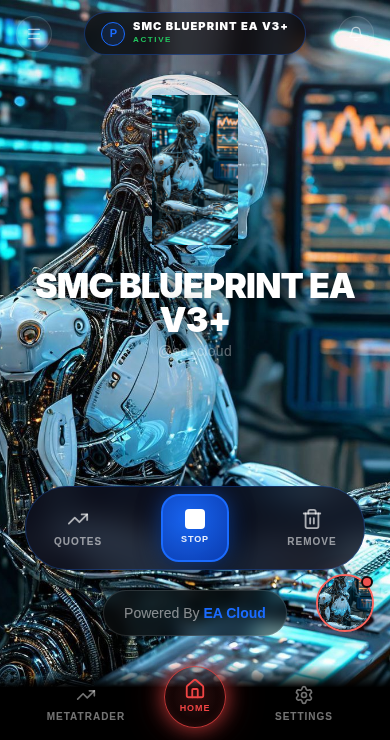
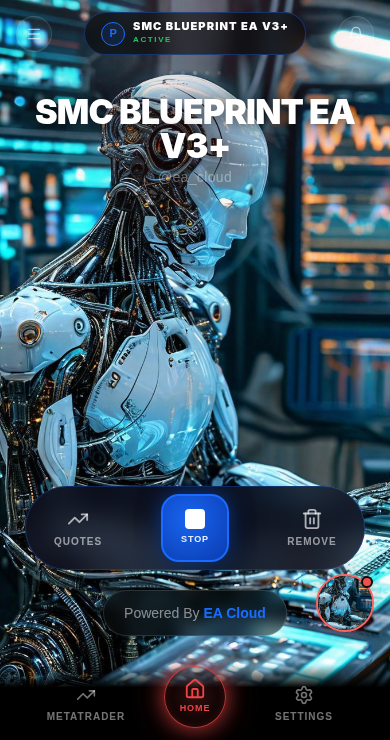
[skip ci] Hide None portraits and enlarge Matrix Orbit and Neural frames

Changed region(s): [[0.0615, 0.1243, 0.9231, 0.4973]]

diff --git a/artifacts/ea-app/src/pages/HomeTab.tsx b/artifacts/ea-app/src/pages/HomeTab.tsx
@@ -5,7 +5,7 @@ import { Bell, Trash2, DollarSign, Play, Pause, X, TrendingUp, Settings2, Check,
 import { useState, useEffect, useRef } from "react";
 import { useApp } from "@/context/AppContext";
 import { useTradeExecutions, type TradeExecution } from "@/hooks/use-trade-executions";
-import { eaLogo, robotBg } from "@/lib/branding";
+import { eaLogo } from "@/lib/branding";
 
 /* Custom chip icon — no inner square */
 function ChipIcon({ size = 24, color = "currentColor", style }: { size?: number; color?: string; style?: React.CSSProperties }) {
@@ -156,8 +156,8 @@ function S2ToneLayout({ shapeStyle, accentColor, botRunning, setBotRunning, eaNa
             : `radial-gradient(circle at 38% 32%, ${accentColor}99 0%, ${accentColor}55 30%, rgba(50,0,0,0.98) 65%, rgba(12,0,0,1) 100%)`,
         }}
       >
-        {(bgImageUrl || shapeStyle === "none") && (
-          <img src={bgImageUrl || robotBg} alt="" className="absolute inset-0 w-full h-full object-cover" />
+        {bgImageUrl && (
+          <img src={bgImageUrl} alt="" className="absolute inset-0 w-full h-full object-cover" />
         )}
         {/* Inner highlight glint */}
         {!bgImageUrl && shapeStyle !== "none" && (
@@ -291,8 +291,8 @@ function RegularLayout({ shapeStyle, accentColor, botRunning, setBotRunning, eaN
           zIndex: 1,
         }}
       >
-        {(bgImageUrl || shapeStyle === "none") ? (
-          <img src={bgImageUrl || robotBg} alt="" className="absolute inset-0 w-full h-full object-cover" />
+        {bgImageUrl ? (
+          <img src={bgImageUrl} alt="" className="absolute inset-0 w-full h-full object-cover" />
         ) : (
           <ChipIcon size={110} color={accentColor} style={{ filter: `drop-shadow(0 0 18px ${accentColor}) drop-shadow(0 0 36px ${accentColor}66)` }} />
         )}
@@ -432,15 +432,11 @@ function MatrixLayout({ shapeStyle, accentColor, botRunning, setBotRunning, eaNa
         {[...Array(5)].map((_, i) => <div key={i} className="w-1 h-1 rounded-full bg-white" style={{ opacity: i === 2 ? 0.8 : 0.4 }} />)}
       </div>
 
-      {shapeStyle === "none" ? (
-        <RobotImageFrame shape="none" accent={accentColor} size={150} borderWidth={0} className="mb-6" style={{}}>
-          <img src={bgImageUrl || robotBg} alt={eaName} />
-        </RobotImageFrame>
-      ) : (
-      <div className="relative flex items-center justify-center mb-6" style={{ width: 210, height: 210 }}>
+      {shapeStyle !== "none" && (
+      <div className="relative flex items-center justify-center mb-6" style={{ width: 260, height: 260 }}>
         <div className="absolute rounded-full pointer-events-none" style={{ inset: 0, border: "1px solid rgba(26,107,255,0.12)" }} />
         <div className="absolute rounded-full pointer-events-none" style={{ inset: 16, border: "1px solid rgba(26,107,255,0.22)" }} />
-        <RobotImageFrame shape={shapeStyle} accent={accentColor} size={150} borderWidth={3} className="absolute rounded-full overflow-hidden flex items-center justify-center" style={{ inset: 30, background: bgImageUrl ? "transparent" : "rgba(240,245,255,0.96)", border: "3px solid rgba(190,215,255,0.9)", boxShadow: `0 0 40px ${blue}55, 0 0 80px ${blue}28` }}>
+        <RobotImageFrame shape={shapeStyle} accent={accentColor} size={200} borderWidth={3} className="absolute rounded-full overflow-hidden flex items-center justify-center" style={{ inset: 30, background: bgImageUrl ? "transparent" : "rgba(240,245,255,0.96)", border: "3px solid rgba(190,215,255,0.9)", boxShadow: `0 0 40px ${blue}55, 0 0 80px ${blue}28` }}>
           {bgImageUrl
             ? <img src={bgImageUrl} alt={eaName} className="w-full h-full object-cover" />
             : <span className="font-black select-none" style={{ fontSize: 58, color: "transparent", WebkitTextStroke: `3px ${blue}`, lineHeight: 1 }}>P</span>}

diff --git a/artifacts/ea-app/src/components/RobotImageFrame.tsx b/artifacts/ea-app/src/components/RobotImageFrame.tsx
@@ -1,20 +1,12 @@
-import {Children,cloneElement,isValidElement,useId,type CSSProperties,type ReactNode} from "react";
+import {useId,type CSSProperties,type ReactNode} from "react";
 import type {ShapeStyle} from "@/context/AppContext";
 import {frameGeometry} from "@/lib/robot-frame-shape";
 import "./RobotImageFrame.css";
 interface Props{shape:ShapeStyle;accent:string;size:number;borderWidth:number;className?:string;style:CSSProperties;children:ReactNode}
 export default function RobotImageFrame({shape,accent,size,borderWidth,className="",style,children}:Props){
  const id=`robot-frame-${useId().replace(/:/g,"")}`;const geometry=frameGeometry(shape,size,borderWidth);
- // None renders the image itself, not a transparent decorative frame.
- if(shape==="none"){
-  const image=Children.toArray(children).find(child=>isValidElement(child)&&child.type==="img");
-  if(!isValidElement<{className?:string;style?:CSSProperties}>(image))return null;
-  return cloneElement(image,{
-   ...{"data-robot-shape":"none"},
-   className:`${className} robot-image-unframed`,
-   style:{...style,position:"relative",inset:"auto",width:"auto",height:"auto",maxWidth:size,maxHeight:size,display:"block",flexShrink:0,alignSelf:"center",marginLeft:"auto",marginRight:"auto",border:0,borderRadius:0,boxShadow:"none",background:"none",filter:"none",clipPath:"none",objectFit:"contain",objectPosition:"center",overflow:"visible"}
-  });
- }
+ // None removes the portrait and its frame without leaving a layout element.
+ if(shape==="none")return null;
  // Orbit retains each layout's original border, glow, background and content box.
  if(shape==="orbit")return <div key={shape} className={`${className} robot-image-frame`} data-robot-shape={shape} style={style}>{children}</div>;
  const outline=<rect x={geometry.inset} y={geometry.inset} width={geometry.extent} height={geometry.extent} rx={geometry.radius}/>;

diff --git a/artifacts/ea-app/src/pages/SettingsTab.tsx b/artifacts/ea-app/src/pages/SettingsTab.tsx
@@ -21,7 +21,7 @@ const INTERFACE_OPTIONS: { id: InterfaceStyle; label: string; desc: string }[] =
 ];
 
 const SHAPE_OPTIONS: { id: ShapeStyle; label: string; desc: string }[] = [
-  { id: "none", label: "None", desc: "Bot image without a decorative shape" },
+  { id: "none", label: "None", desc: "Hide the bot image and decorative shape" },
   { id: "orbit", label: "The Orbit", desc: "Circle Shape Interface" },
   { id: "neural", label: "The Neural Interface", desc: "Neural Network Style" },
 ];

diff --git a/docs/shape-selection/README.md b/docs/shape-selection/README.md
@@ -1,32 +1,38 @@
-# Shape options: None, Orbit and Neural
+# Revised None visibility and Matrix sizing
 
-Cornerstone and Fortress have been removed from the menu, ShapeStyle type, valid saved-value registry and frame rendering/geometry logic. Legacy saved values safely fall back to Orbit. New selections still use the existing per-client localStorage key, including None, with no account or navigation changes.
+## Current behavior
 
-None returns the actual image element, not an empty transparent frame. Its intrinsic aspect ratio is preserved within each interface's image size limit, and it is centered without clipping, decorative border, outline, glow or shape background. If no mentor image is configured, None uses the existing default robot asset. Regular's additional frame glow, S2tone's highlight and Matrix's surrounding rings/pulse and 210px frame holder are absent in None mode. Orbit and Neural keep their existing rendering and immediate shared selection behavior.
+None now hides the main bot portrait and its complete frame in Regular, S2tone_ and Matrix, superseding the previous request to retain the image. RobotImageFrame returns null: there is no image, fallback, frame, transparent placeholder or reserved frame-sized DOM element. Existing frame-related glow, rings and pulses also remain absent. The interface's full background image, title, trading controls, navigation and independent trade-activity button are untouched. The None menu description reflects its new behavior.
 
-## Actual production-build browser verification
+Matrix's Orbit and Neural frames increase from 150px to 200px, with the existing surrounding holder increasing from 210px to 260px to retain the original 30px inset. Existing colors, borders and remaining layout are preserved. Regular's 290px and S2tone's 230px frames are unchanged. None still persists through the existing per-client preference store, and selecting another shape immediately restores its image and frame. Cornerstone and Fortress remain removed.
 
-The combined Cloudflare Pages build was served locally at `/ea-app/`. Chromium used Settings → Select Main Interface and Select Shape, with isolated API fixtures using the original default robot artwork as mentor image. No production account or trading service was used.
+## Production-build browser verification
 
-For each of Regular, S2tone_ and Matrix, selected None → Orbit → Neural → None. Assertions verified the main image/frame changed immediately while Settings remained open, before returning Home. All 12 switches kept a loaded image centered on screen. None rendered IMG directly, with zero border/radius, no background, shadow or clipping, no outline SVG, and its rendered aspect ratio matching the source image. Orbit and Neural frames returned correctly. Each None selection survived a full page reload and retained the matching Settings checkmark; the value remained scoped to the existing client key. Cornerstone and Fortress were absent from the clickable menu.
+Served the combined Cloudflare Pages output locally at `/ea-app/`. Chromium selected each actual interface and shape via Settings, using isolated API fixtures and the existing default robot artwork as mentor background. None → Orbit → Neural → None was exercised in all three layouts, verifying immediate DOM updates before leaving Settings, a visible unchanged background, no portrait/frame DOM for None, restored images for the remaining choices, centered frames, and retained None selection after reload. All twelve transitions passed. Matrix frames measured exactly 200px; Regular and S2tone measured 290px and 230px.
 
-![Regular with None](regular-none.png)
+![Regular: None hides the main portrait](regular-none.png)
 
-![S2tone_ with None](s2tone-none.png)
+![S2tone_: None hides the main portrait](s2tone-none.png)
 
-![Matrix with None](matrix-none.png)
+![Matrix: None hides the main portrait](matrix-none.png)
 
-[Recorded measurements for all 12 switches](browser-results.json)
+![Matrix: enlarged Orbit](matrix-orbit.png)
 
-The updated unit suite covers all nine layout/shape combinations, menu callbacks, removed-option rejection, fallback from old saved selections, per-account isolation and unavailable storage. TypeScript and production builds passed. No new dependencies were added.
+![Matrix: enlarged existing Neural](matrix-neural.png)
 
-Repeat with an existing production preview on port 5177:
+[Browser measurements](browser-results.json)
+
+Four unit tests also pass, covering all nine layout/shape combinations, menu callbacks, persistence, invalid legacy preferences, unavailable storage, and no fallback portrait in None mode. TypeScript and production builds passed.
 
 ```sh
-APP_ORIGIN=http://127.0.0.1:5177/ea-app/ CHROMIUM_PATH=/usr/bin/chromium node scripts/tests/shape-selection.browser.mjs
+APP_ORIGIN=http://127.0.0.1:5178/ea-app/ CHROMIUM_PATH=/usr/bin/chromium node scripts/tests/shape-selection.browser.mjs
 node scripts/tests/robot-shape.test.mjs
 ```
 
-Set PLAYWRIGHT_MODULE to the installed Playwright index.mjs path if the module is external to the repository. Browser evidence defaults to work/shape-selection/.
+For externally installed Playwright, set PLAYWRIGHT_MODULE to its index.mjs path. Captures default to work/shape-selection/.
 
-No production deployment was performed. These screenshots verify the locally served production artifact, not the live Cloudflare website. The request ended at “The selected shape”; persistence follows the application's existing per-client preference mechanism.
+## Pending requirement and deployment
+
+The request ends mid-sentence at “Only the existing interface background imag”, and no reference image is available in the supplied files. The user confirmed that “Neutral” refers to the existing Neural option in the Shapes section. The reference-based Matrix Neural redesign has NOT been implemented: it requires the missing reference and remaining instructions. This is a verified partial change, not completion of all three requested changes.
+
+No production deployment was performed. Live Cloudflare content has not been verified; screenshots establish the local production artifact only.
